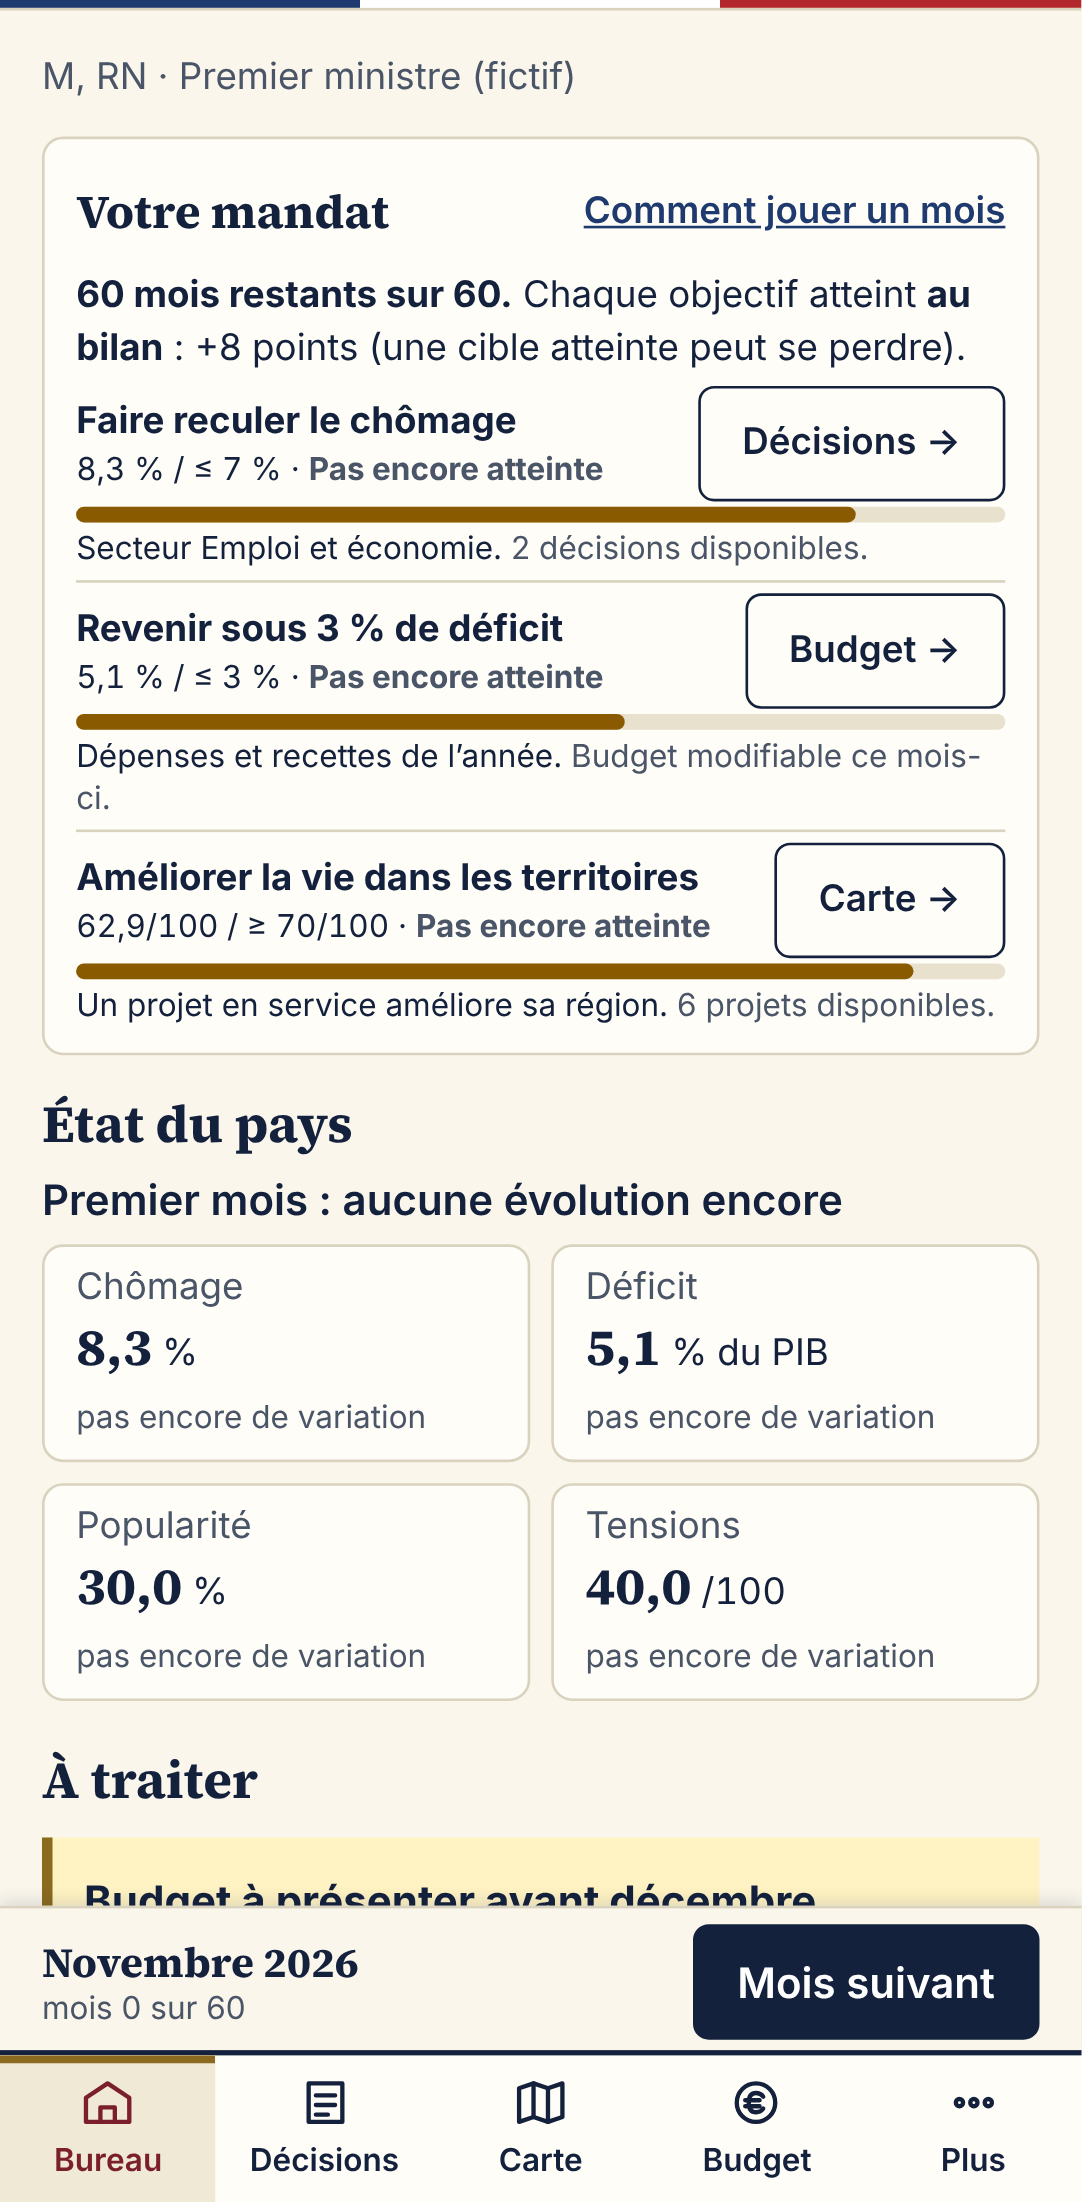
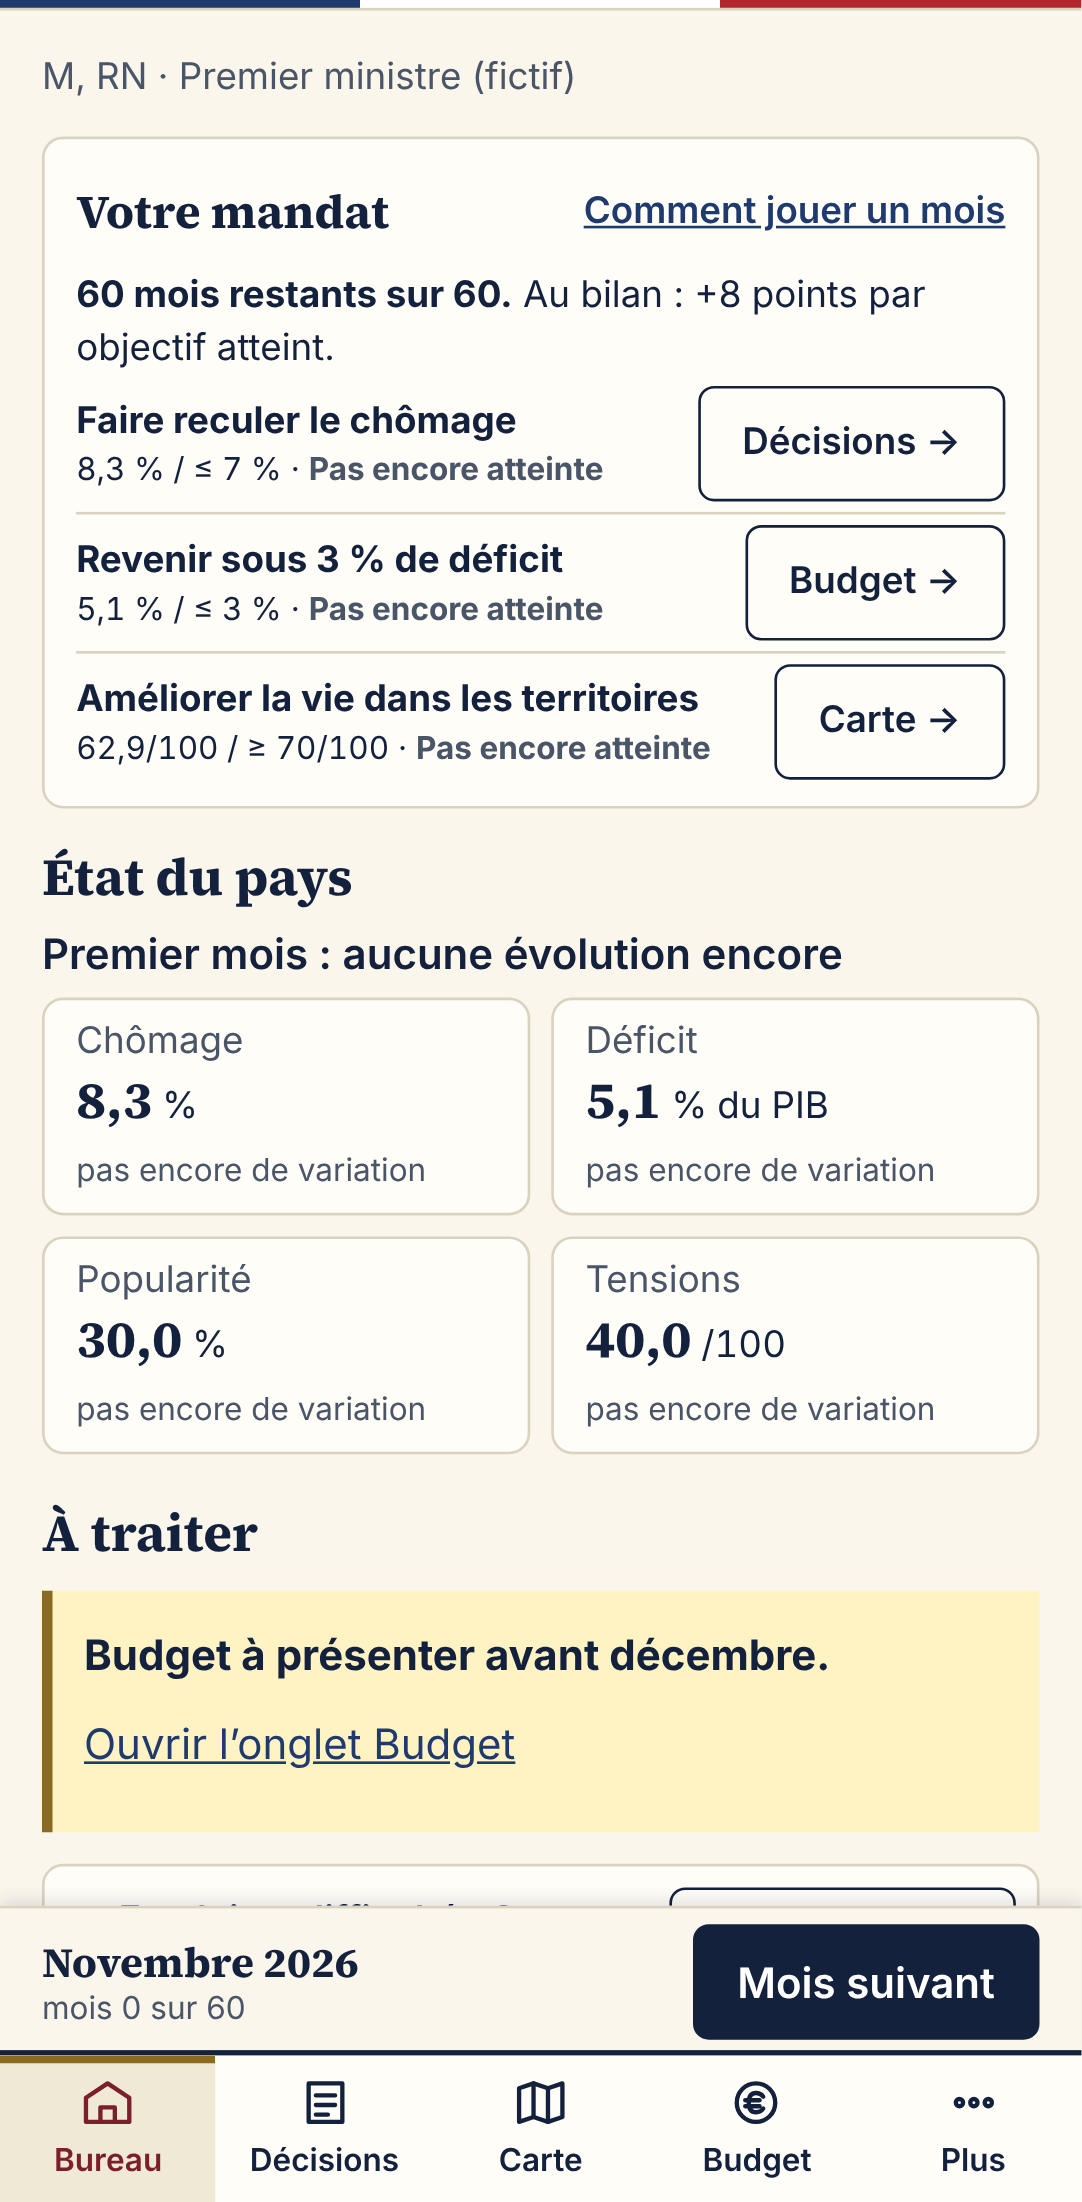
fix(ui): brief du mandat compacté sur mobile (pistes repliées), limite de hauteur du Bureau respectée
Claude-Session: https://claude.ai/code/session_015bJgoC3KmNFuWfyYbnEbJ8

diff --git a/src/ui/components/objectifs.js b/src/ui/components/objectifs.js
@@ -115,7 +115,9 @@ export function briefMandat(etat, donnees, leviers) {
         <li>Passez au mois suivant.</li>
         <li>Lisez « Ce mois-ci » au Bureau : ce qui a bougé et pourquoi.</li>
       </ol>
-      <ul class="list-disc pl-5 text-sm text-doux pb-1 border-b border-bord mb-1">${fins}</ul></details>`;
+      <ul class="list-disc pl-5 text-sm text-doux pb-1">${fins}<li class="sm:hidden">Seule la valeur au bilan compte : une cible atteinte aujourd’hui peut encore se perdre.</li></ul>
+      ${objectifs.length ? `<p class="sm:hidden text-sm font-semibold">Pistes</p><ul class="sm:hidden list-disc pl-5 text-sm pb-1">${objectifs.map((o) => `<li><strong>${esc(o.titre)}</strong> : ${esc(piste(o.id, etat).texte)} <span class="text-doux">${esc(disponibilite(piste(o.id, etat).aller, liste, etat, refusPLF))}</span></li>`).join('')}</ul>` : ''}
+      <div class="border-b border-bord mb-1"></div></details>`;
 
   const restants = `<strong id="mois-restants">${reste} mois restants sur ${dureeMandat}.</strong>`;
   let corps;
@@ -137,10 +139,11 @@ export function briefMandat(etat, donnees, leviers) {
       return `<li class="py-1 border-b border-bord last:border-0" data-objectif="${esc(o.id)}">
       <div class="flex items-center justify-between gap-2"><div class="min-w-0 text-sm leading-5"><strong>${esc(o.titre)}</strong>
         <span class="block text-xs leading-4"><span class="tabular-nums">${esc(t.v)} / ${esc(t.c)}</span> · <span class="font-bold ${o.atteint ? 'text-[#1F6E43]' : 'text-doux'}">${o.atteint ? 'Atteinte pour l’instant' : 'Pas encore atteinte'}</span></span></div>${bouton(p.aller, o.titre)}</div>
-      <div class="h-1.5 my-0.5 bg-[#E8E1CD] rounded" role="meter" aria-label="Progression : ${esc(o.titre)}" aria-valuemin="0" aria-valuemax="100" aria-valuenow="${pct}" aria-valuetext="${pct} %"><div class="h-1.5 rounded" style="width:${pct}%;background:${o.atteint ? '#1F6E43' : '#8A5A00'}"></div></div>
-      <p class="text-xs leading-4">${esc(p.texte)} <span class="text-doux">${esc(disponibilite(p.aller, liste, etat, refusPLF))}</span></p></li>`;
+      <div class="hidden sm:block h-1.5 my-0.5 bg-[#E8E1CD] rounded" role="meter" aria-label="Progression : ${esc(o.titre)}" aria-valuemin="0" aria-valuemax="100" aria-valuenow="${pct}" aria-valuetext="${pct} %"><div class="h-1.5 rounded" style="width:${pct}%;background:${o.atteint ? '#1F6E43' : '#8A5A00'}"></div></div>
+      <p class="hidden sm:block text-xs leading-4">${esc(p.texte)} <span class="text-doux">${esc(disponibilite(p.aller, liste, etat, refusPLF))}</span></p></li>`;
     }).join('');
-    corps = `<p class="text-sm">${restants} Chaque objectif atteint <strong>au bilan</strong> : +${points} points (une cible atteinte peut se perdre).</p>
+    corps = `<p class="text-sm">${restants} Au bilan : +${points} points par objectif atteint.</p>
+      <p class="hidden sm:block text-xs text-doux">Seule la valeur au bilan compte : une cible atteinte aujourd’hui peut encore se perdre.</p>
       <ul>${lignes}</ul>`;
   }
   const html = `<section aria-labelledby="h-obj" class="bg-carte border border-bord rounded-lg px-3 py-1.5 mb-3" id="brief-mandat">

diff --git a/src/ui/screens/tableau.js b/src/ui/screens/tableau.js
@@ -45,10 +45,11 @@ function carteBriefing(pt, i) {
     <button type="button" id="brief-${i}" data-brief="${i}" class="btn btn-s shrink-0 !px-3 text-sm">${ACTIONS_BRIEFING[pt.type] ?? 'Ouvrir'}<span class="sr-only"> : ${esc(pt.titre)}</span></button></li>`;
 }
 
+// Sur mobile, la barre du bas mène déjà à Décisions et le brief du mandat propose des accès ciblés : ligne réservée à l’ordinateur
 function lienDecisions(etat, ctx) {
   const c = compterDecisions(catalogue(etat, ctx)).parStatut;
   const dispo = (c.disponible ?? 0) + (c.urgent ?? 0), cours = c.en_cours ?? 0;
-  return `<p class="text-sm"><strong>${dispo}</strong> décision${dispo > 1 ? 's' : ''} disponible${dispo > 1 ? 's' : ''} · <strong>${cours}</strong> en cours
+  return `<p class="hidden sm:block text-sm"><strong>${dispo}</strong> décision${dispo > 1 ? 's' : ''} disponible${dispo > 1 ? 's' : ''} · <strong>${cours}</strong> en cours
     <button type="button" class="underline text-bleu min-h-[44px] px-2 font-semibold" data-aller-decisions>→ Décisions</button></p>`;
 }
 

diff --git a/e2e/cap-mandat.spec.js b/e2e/cap-mandat.spec.js
@@ -28,7 +28,7 @@ test('brief avant les indicateurs, objectifs choisis, fins et déroulé', async 
   await expect(brief.locator('[data-objectif]')).toHaveCount(3);
   for (const id of ['chomage', 'deficit', 'territoires']) await expect(brief.locator(`[data-objectif=${id}]`)).toBeVisible();
   await expect(brief).toContainText('+8 points');
-  await expect(brief).toContainText('une cible atteinte peut se perdre');
+  await expect(brief).toContainText('une cible atteinte aujourd’hui peut encore se perdre');
   await brief.getByText('Comment jouer un mois').click();
   await expect(brief.getByRole('listitem').filter({ hasText: 'Passez au mois suivant' })).toBeVisible();
   await expect(brief).toContainText('popularité passe sous 8 %');

diff --git a/e2e/objectifs.spec.js b/e2e/objectifs.spec.js
@@ -23,7 +23,7 @@ test('choisir 3 objectifs non défaut, les voir au Bureau', async ({ page }) => 
   await page.getByRole('button', { name: 'Commencer' }).click();
   const bloc = page.getByRole('region', { name: 'Votre mandat' });
   await expect(bloc).toBeVisible();
-  for (const t of choix) await expect(bloc.getByText(t, { exact: true })).toBeVisible();
+  for (const t of choix) await expect(bloc.locator('[data-objectif]').getByText(t, { exact: true })).toBeVisible();
   await expect(bloc.getByText('60 mois restants sur 60.')).toBeVisible();
   await expect(bloc.getByText(/Atteinte pour l’instant|Pas encore atteinte/)).toHaveCount(3);
   expect(erreurs).toEqual([]);

diff --git a/sw.js b/sw.js
@@ -1,6 +1,6 @@
 // FICHIER GÉNÉRÉ par scripts/generer-sw.js — ne pas modifier à la main.
 // Service worker : le jeu fonctionne hors ligne après une première visite.
-const CACHE = 'hemicycle-54b22c52f07c';
+const CACHE = 'hemicycle-e6505fb303e9';
 const FICHIERS = [
   "./",
   "./index.html",
